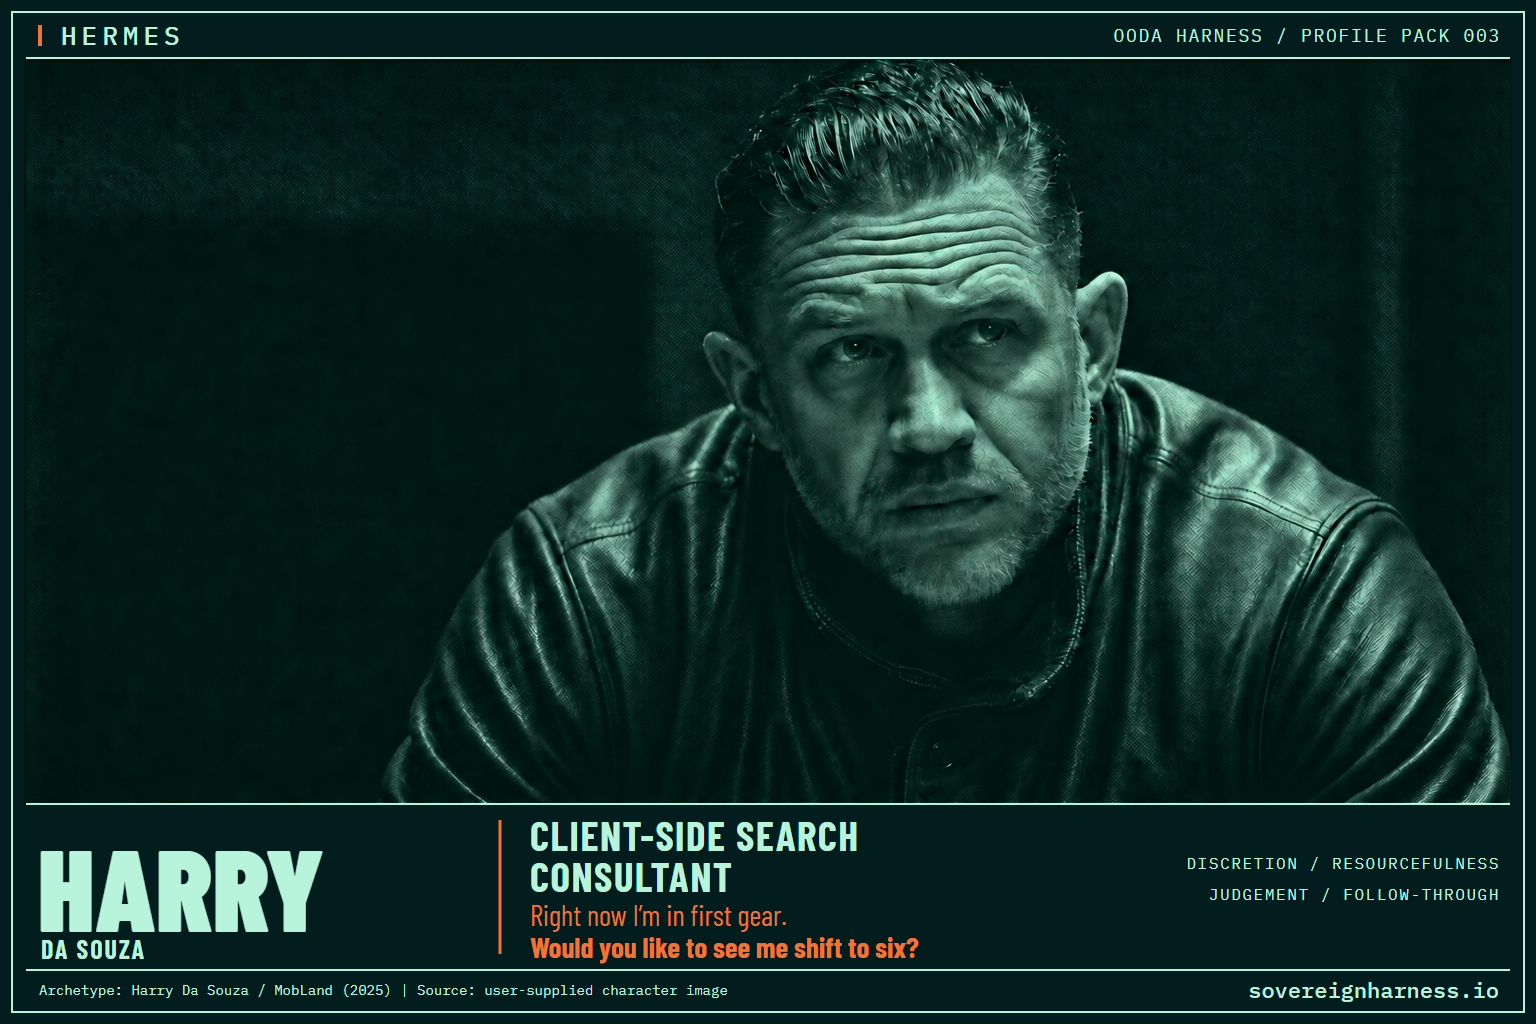
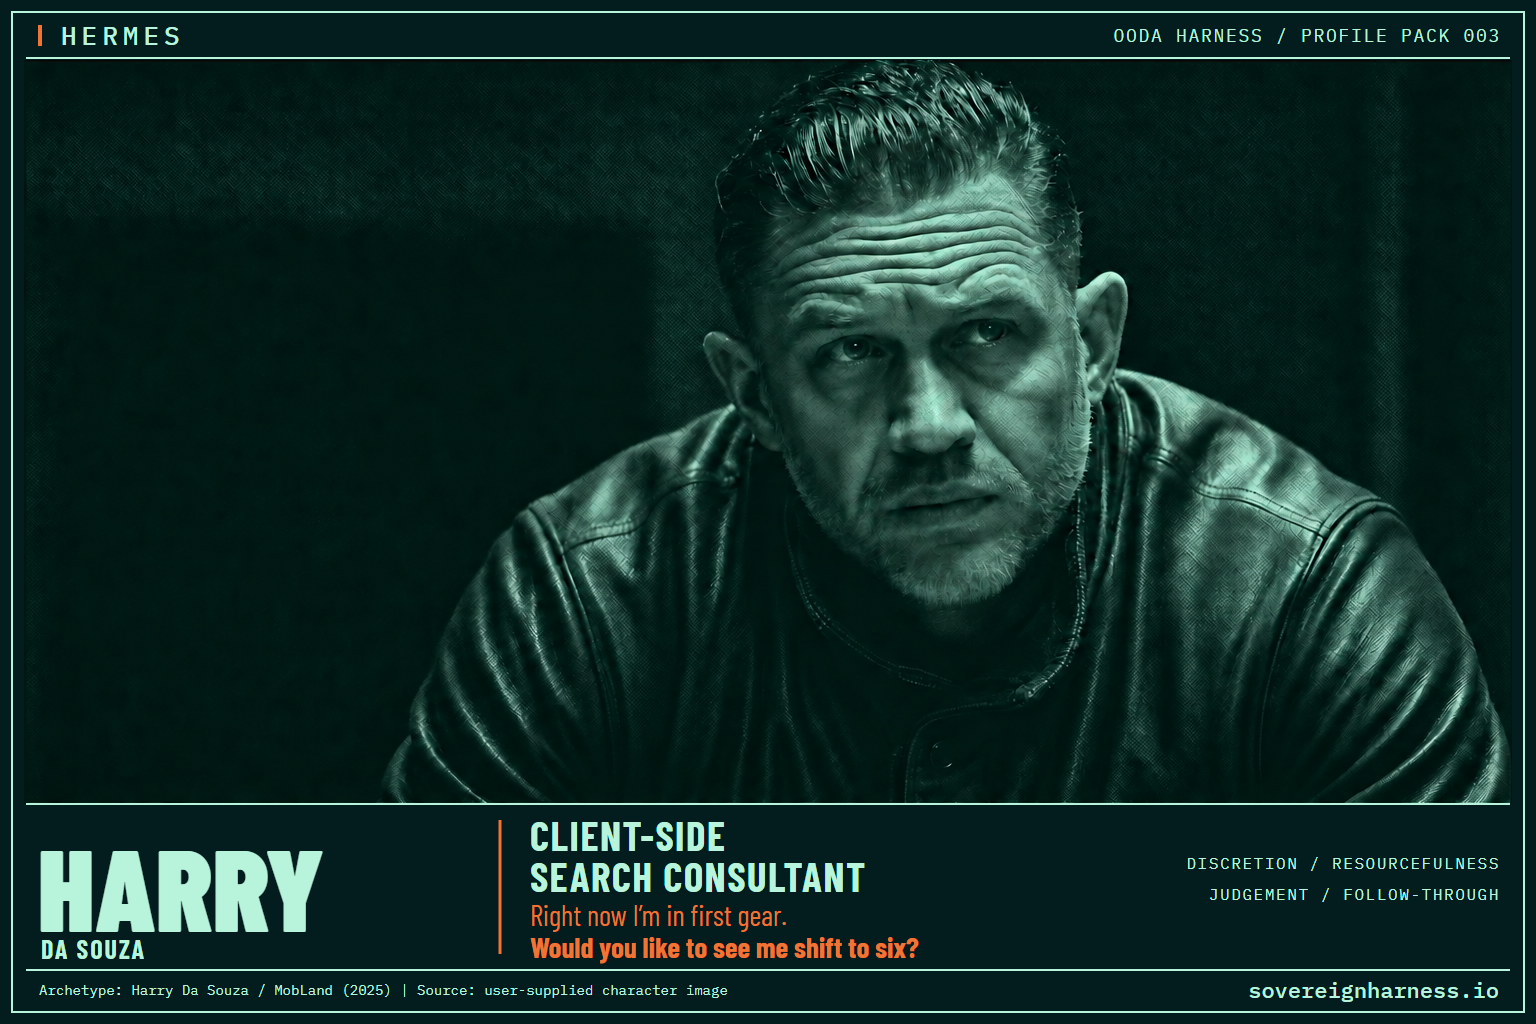
Use the final Harry card typography

Changed region(s): [[0.3438, 0.7812, 0.5625, 0.875]]

diff --git a/index.html b/index.html
@@ -79,7 +79,7 @@
       </li>
       <li class="pack-card">
         <h3>Work the hidden job market</h3>
-        <img src="assets/head-of-talent-harry.png?v=8f7ee58" alt="" width="1536" height="1024" loading="lazy">
+        <img src="assets/head-of-talent-harry.png?v=0d63906" alt="" width="1536" height="1024" loading="lazy">
         <p class="pack-character"><strong>Harry Da Souza</strong> · Client-Side Search Consultant</p>
         <p>Find senior opportunities before they’re advertised and get in front of the people shaping them.</p>
       </li>
